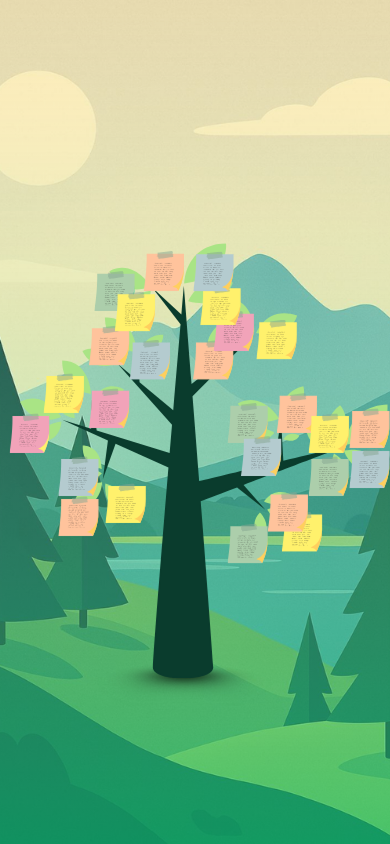
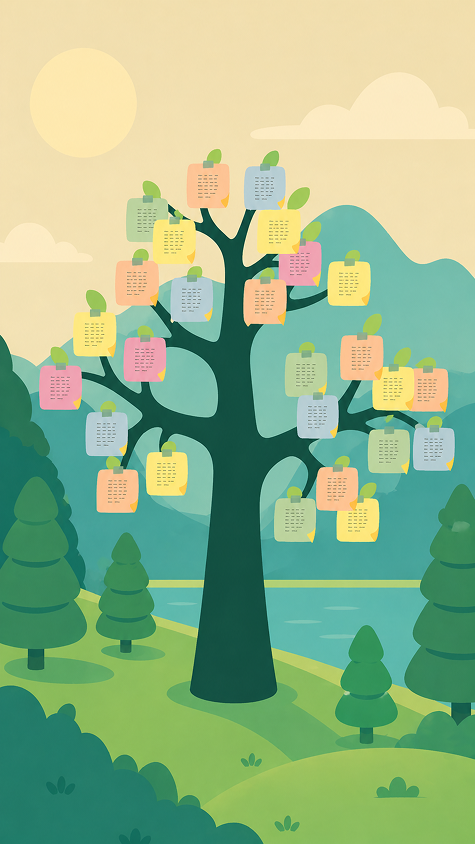
update img

diff --git a/Firebasemauiapp/MauiProgram.cs b/Firebasemauiapp/MauiProgram.cs
@@ -11,7 +11,6 @@ using CommunityToolkit.Maui;
 using Syncfusion.Maui.Core.Hosting;
 using Microsoft.Maui.Storage;
 using System.IO;
-using Firebasemauiapp.Config;
 using System.Globalization;
 
 namespace Firebasemauiapp;
@@ -56,7 +55,7 @@ public static class MauiProgram
 
 				Microsoft.Maui.Handlers.EditorHandler.Mapper.AppendToMapping("NoUnderline", (handler, view) =>
 				{
-					handler.PlatformView.BackgroundTintList = 
+					handler.PlatformView.BackgroundTintList =
 						global::Android.Content.Res.ColorStateList.ValueOf(global::Android.Graphics.Color.Transparent);
 				});
 #endif
@@ -82,9 +81,6 @@ public static class MauiProgram
 		};
 
 		builder.Services.AddSingleton(new FirebaseAuthClient(authConfig));
-
-		// Apply GitHub settings to Preferences
-		GitHubSettings.ApplyToPreferences();
 
 		// เพิ่ม Firestore services
 		builder.Services.AddSingleton<FirestoreService>();